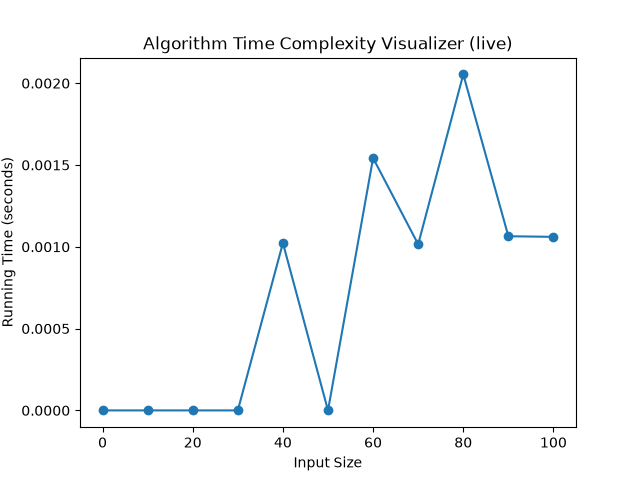
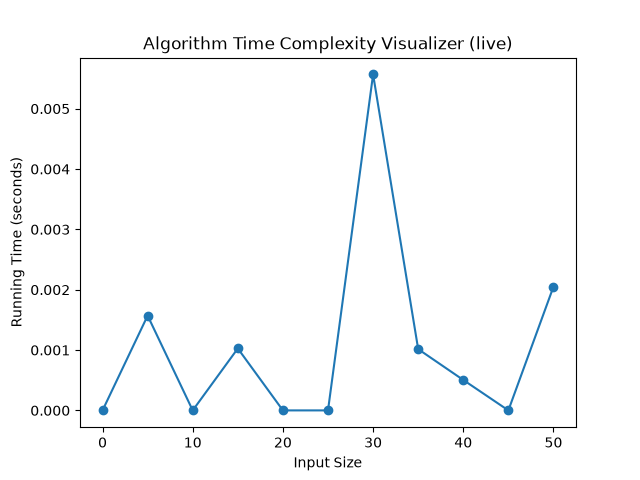
Add .gitignore to exclude ven and cache files

diff --git a/factorial.py b/factorial.py
@@ -1,10 +1,12 @@
 import time
-import numpy as np
 from flask import Flask, request, jsonify
 import base64
 import matplotlib
 matplotlib.use('Agg')
 import matplotlib.pyplot as plt
+from flask_sqlalchemy import SQLAlchemy
+print("THIS IS MY APP.PY")
+
 
 def time_complexity_visualizer(algorithm, n_min, n_max, n_step):
     times = []
@@ -34,7 +36,7 @@ def time_complexity_visualizer(algorithm, n_min, n_max, n_step):
 
     filename = f"{algorithm.__name__}.png"
     fig.savefig(filename)
-
+    plt.close(fig)
     return filename
 
 
@@ -81,8 +83,21 @@ algorithms = {
 
 
 app = Flask(__name__)
+app.config['SQLALCHEMY_DATABASE_URI'] = 'sqlite:///analysis.db'
+app.config['SQLALCHEMY_TRACK_MODIFICATIONS'] = False
+db = SQLAlchemy(app)
 
+class Analysis(db.Model):
+    id = db.Column(db.Integer, primary_key=True)
+    algorithm = db.Column(db.String(100), nullable=False)
+    step = db.Column(db.Integer, nullable=False)
+    n_max = db.Column(db.Integer, nullable=False)
+    image_file = db.Column(db.String(200), nullable=False)
+    image_base64 = db.Column(db.Text, nullable=False)
 
+with app.app_context():
+    db.create_all()
+    
 @app.route("/analyze")
 def analyze():
     algo = request.args.get("algo", "")
@@ -92,6 +107,8 @@ def analyze():
 
     results = []
     for name in algo_names:
+        if name not in algorithms:  # fix 2: guard against a bad algo name
+            return jsonify({"error": f"Unknown algorithm: {name}"}), 400
         selected_algorithm = algorithms[name]
 
         filename = time_complexity_visualizer(
@@ -110,15 +127,33 @@ def analyze():
             "image_base64": image_base64
         })
 
+
     return jsonify({
-
-
-        \
         "algorithms": results,
         "step": step,
         "n_max": n_max
     })
 
+@app.route("/save_analysis", methods=["POST"])
+def save_analysis():
+    data = request.get_json()
+
+    for result in data["algorithms"]:
+        analysis = Analysis(
+            algorithm=result["algorithm"],
+            step=data["step"],
+            n_max=data["n_max"],
+            image_file=result["image_file"],
+            image_base64=result["image_base64"]
+        )
+
+        db.session.add(analysis)
+
+    db.session.commit()
+
+    return jsonify({
+        "message": "Analysis saved successfully"
+    })
 
 if __name__ == "__main__":
 
